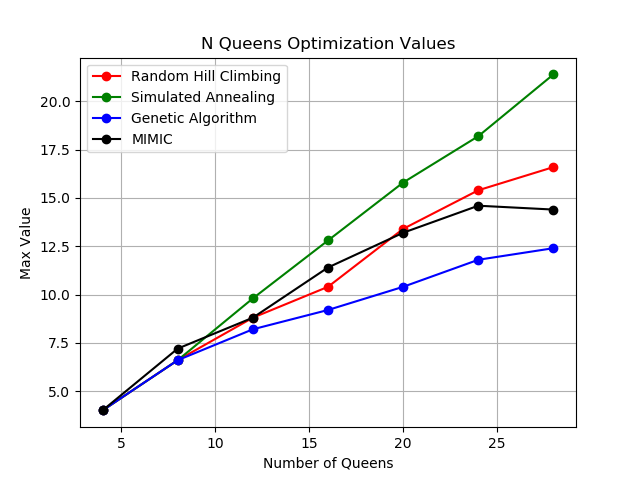
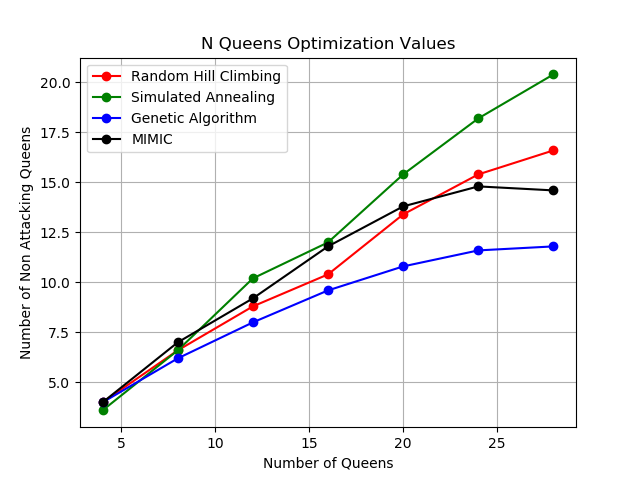
improved charts

Changed region(s): [[0.0312, 0.1562, 0.9062, 0.875], [0.0625, 0.7812, 0.125, 0.8438], [0.0625, 0.1562, 0.125, 0.2188]]

diff --git a/run_optimizations.py b/run_optimizations.py
@@ -10,8 +10,8 @@ np.random.seed(92)
 num_runs = 5
 
 queen_range = range(4, 32, 4)
-one_max_range = range(10, 50, 10)
-knapsack_range = range(2, 10)
+one_max_range = range(10, 60, 10)
+knapsack_range = range(3, 9)
 
 print()
 print ("Running Random Hill Climbing...")
@@ -60,7 +60,7 @@ knapsack_mimic_avgs, knapsack_mimic_times = run_mimic(knapsack, knapsack_range, 
 plt.figure()
 plt.title("N Queens Optimization Values")
 plt.xlabel("Number of Queens")
-plt.ylabel("Max Value")
+plt.ylabel("Number of Non Attacking Queens")
 
 plt.grid()
 
@@ -98,7 +98,7 @@ plt.savefig("images/queen_time.png")
 plt.figure()
 plt.title("OneMax Optimization Values")
 plt.xlabel("Number of Bits")
-plt.ylabel("Max Value")
+plt.ylabel("Value of Bit String")
 
 plt.grid()
 
@@ -133,8 +133,8 @@ plt.savefig("images/one_max_time.png")
 # Plot Knapsack Values
 plt.figure()
 plt.title("Knapsack Optimization Values")
-plt.xlabel("Number of Knapsack Items")
-plt.ylabel("Max Value")
+plt.xlabel("Number of Items in Knapsack")
+plt.ylabel("Knapsack Value")
 
 plt.grid()
 
@@ -150,7 +150,7 @@ plt.savefig("images/knapsack_values.png")
 # Plot Knapsack Times
 plt.figure()
 plt.title("Knapsack Optimization Execution Time")
-plt.xlabel("Number of Knapsack Items")
+plt.xlabel("Number of Items in Knapsack")
 plt.ylabel("Time (sec)")
 
 plt.grid()
